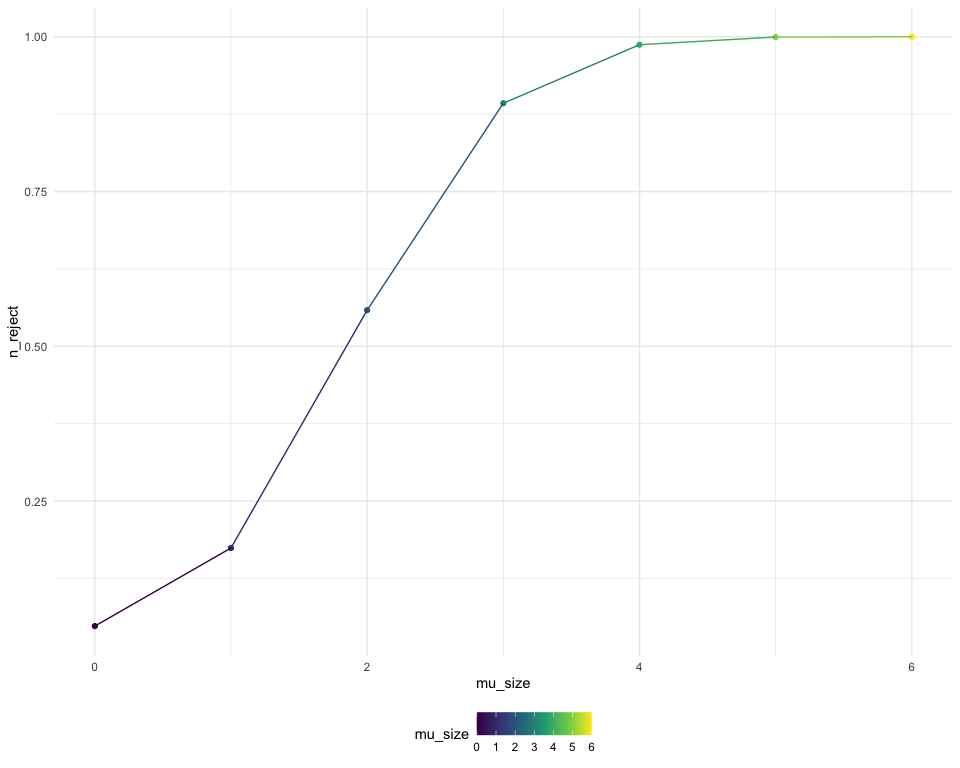
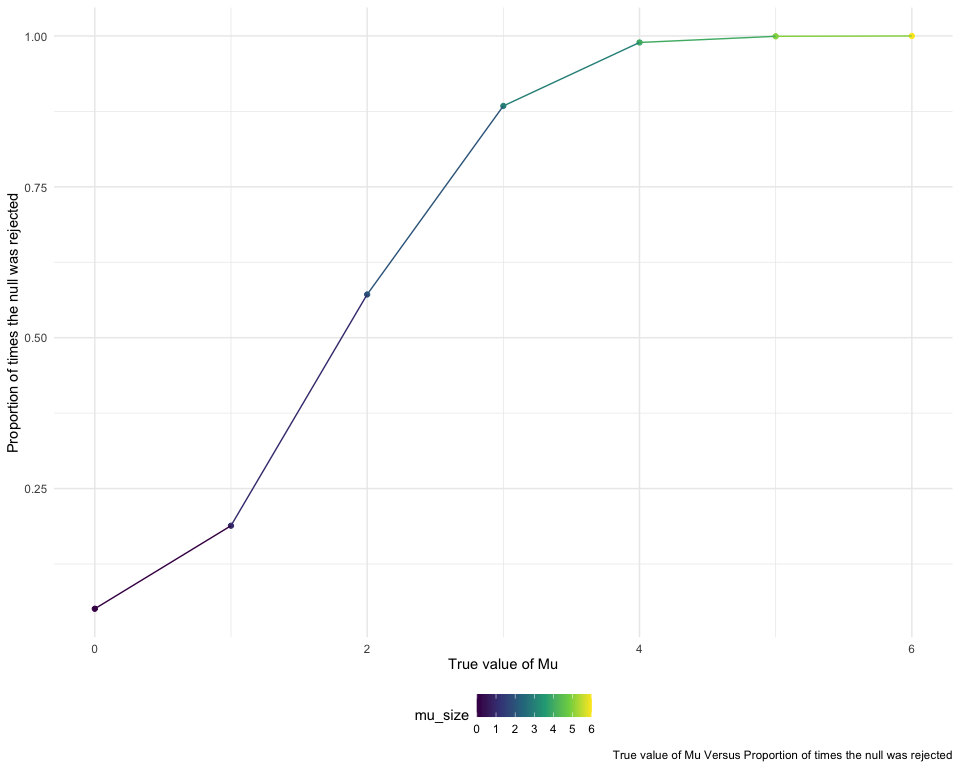
Problem 3 Partial Comments

diff --git a/p8105_hw5_yy3421.md b/p8105_hw5_yy3421.md
@@ -55,7 +55,7 @@ city_homicide_df =
 The above code chunks summarizes the total number of homicides and the
 number of homicides that were solved.
 
-## Prop test for Baltimore
+### Prop test for Baltimore
 
 Looking at cases located in Baltimore, MD, proportion test was used,
 complemented by `broom::tidy` function, to estimate the proportion and
@@ -90,10 +90,10 @@ test_results =
   mutate(city_state = fct_reorder(city_state, estimate))
 ```
 
-Using the data from the above data chunck, a point plot, along with
-error bar, is created to visualized the estimate of the proportion of
-unsolved homicides in each city. Chicago, IL has the highest estimate
-and Richmond, VA has the lowest.
+Using the data from the above data chunk, a point plot, along with error
+bar, is created to visualized the estimate of the proportion of unsolved
+homicides in each city. Chicago, IL has the highest estimate and
+Richmond, VA has the lowest.
 
 ``` r
 test_results  |>  
@@ -294,7 +294,12 @@ files_collection |>
   ggplot(aes(x = time, y = data, color = subject_ID))+
   geom_line()+
   geom_point(alpha = .3)+
-  facet_grid(~control_arm)
+  facet_grid(~control_arm)+
+  labs(
+    x = c("Week"),
+    y = c("Data"),
+    caption = c("Week Versus Data")
+  )
 ```
 
 <img src="p8105_hw5_yy3421_files/figure-gfm/plot-1.png" width="90%" />
@@ -314,9 +319,14 @@ group.
 
 ## Problem 3
 
-``` r
-output = vector("list", 5000)
+Before starting the simulation, the `sim_t_test` function was first
+created that functions to perform a t-test based on a unfixed μ value
+and fixed n and sigma values. In this function, `rnorm` function was
+first used to create the data frame based on the new μ value. Then,
+`t.test` function was used, combining with `broom::tidy` function to
+calculate the estimation of the mean and p value.
 
+``` r
 sim_t_test = function(mu, n = 30, sigma = 5) {
   
   sim_data = tibble(
@@ -333,6 +343,12 @@ sim_t_test = function(mu, n = 30, sigma = 5) {
 }
 ```
 
+After creating the function, simulation was done for μ = 0. An output
+list was first created for storage of data from simulation afterwards.
+Then, simulation was done for 5000 times and collected in the output
+list. At last, `bind_rows` was used to collect all 5000 simulations in
+one tibble.
+
 ### Simulation for mu = 0
 
 ``` r
@@ -343,7 +359,24 @@ for (i in 1:5000) {
 }
 
 sim_results = bind_rows(output)
+
+sim_results
 ```
+
+    ## # A tibble: 5,000 × 2
+    ##    estimate p.value
+    ##       <dbl>   <dbl>
+    ##  1   0.663    0.435
+    ##  2  -0.191    0.852
+    ##  3   0.612    0.580
+    ##  4  -0.976    0.309
+    ##  5  -0.861    0.371
+    ##  6   0.0418   0.961
+    ##  7  -0.218    0.832
+    ##  8  -0.320    0.708
+    ##  9  -0.471    0.539
+    ## 10  -0.639    0.544
+    ## # ℹ 4,990 more rows
 
 ### Simulation for mu = 0:6
 
@@ -359,7 +392,9 @@ sim_results_df =
   unnest(estimate_df)
 ```
 
-# the proportion of times the null was rejected (the power of the test) on the y axis and the true value of μ on the x axis
+The above data chunk simulates results for μ = 0 to 6 using the `map`
+function. After collecting data of estimates and p-value for μ = 0 to 6,
+data visualization could be performed below.
 
 ``` r
 sim_results_df |> 
@@ -371,18 +406,22 @@ sim_results_df |>
   ) |> 
   ggplot(aes(x = mu_size, y = n_reject, color = mu_size))+
   geom_point()+
-  geom_line()
+  geom_line()+
+  labs(
+    x = "True value of Mu",
+    y = "Proportion of times the null was rejected",
+    caption = c("True value of Mu Versus Proportion of times the null was rejected")
+  )
 ```
 
 <img src="p8105_hw5_yy3421_files/figure-gfm/unnamed-chunk-2-1.png" width="90%" />
 
-Describe the association between effect size and power. Based on the
-plot above, there is a decreasing trend in the proportion of times the
-null was rejected as we increase the mu size from 0 to 5. There is 0
-times the null was rejected when mu equals to 6. Hence, as the effect
-size increases, the power of this study increases.
-
-\#second plot
+The above plot visualize the association between the proportion of times
+the null was rejected and the true value of μ. Based on the plot above,
+there is an increasing trend in the proportion of times the null was
+rejected as we increase the μ size from 0 to 6. There is 100% the null
+was rejected when μ equals to 6. Hence, as the effect size increases,
+the power of this study increases.
 
 ``` r
 sim_results_df_mean_mu=
@@ -409,11 +448,9 @@ sim_results_df |>
 
 <img src="p8105_hw5_yy3421_files/figure-gfm/plot 2-1.png" width="90%" />
 
-Is the sample average of μ̂ across tests for which the null is rejected
-approximately equal to the true value of μ? Why or why not? Based on the
-plot above, the sample average of μ̂ across tests for which the null is
-rejected is smaller than the true value of mu. As the null is rejected,
-compared to the total mean estimate, the sample average will be more
-deviated from the true value of mu. Therefore, in the case of this
-simulation, the sample average across tests for which the null is reject
-is smaller than the true value of mu.
+Based on the plot above, the sample average of μ̂ across tests for which
+the null is rejected is smaller than the true value of μ. As the null is
+rejected, compared to the total mean estimate of μ, the sample average
+will be more deviated from the true value of μ. Therefore, in the case
+of this simulation, the sample average across tests for which the null
+is reject is larger than the true value of μ.
